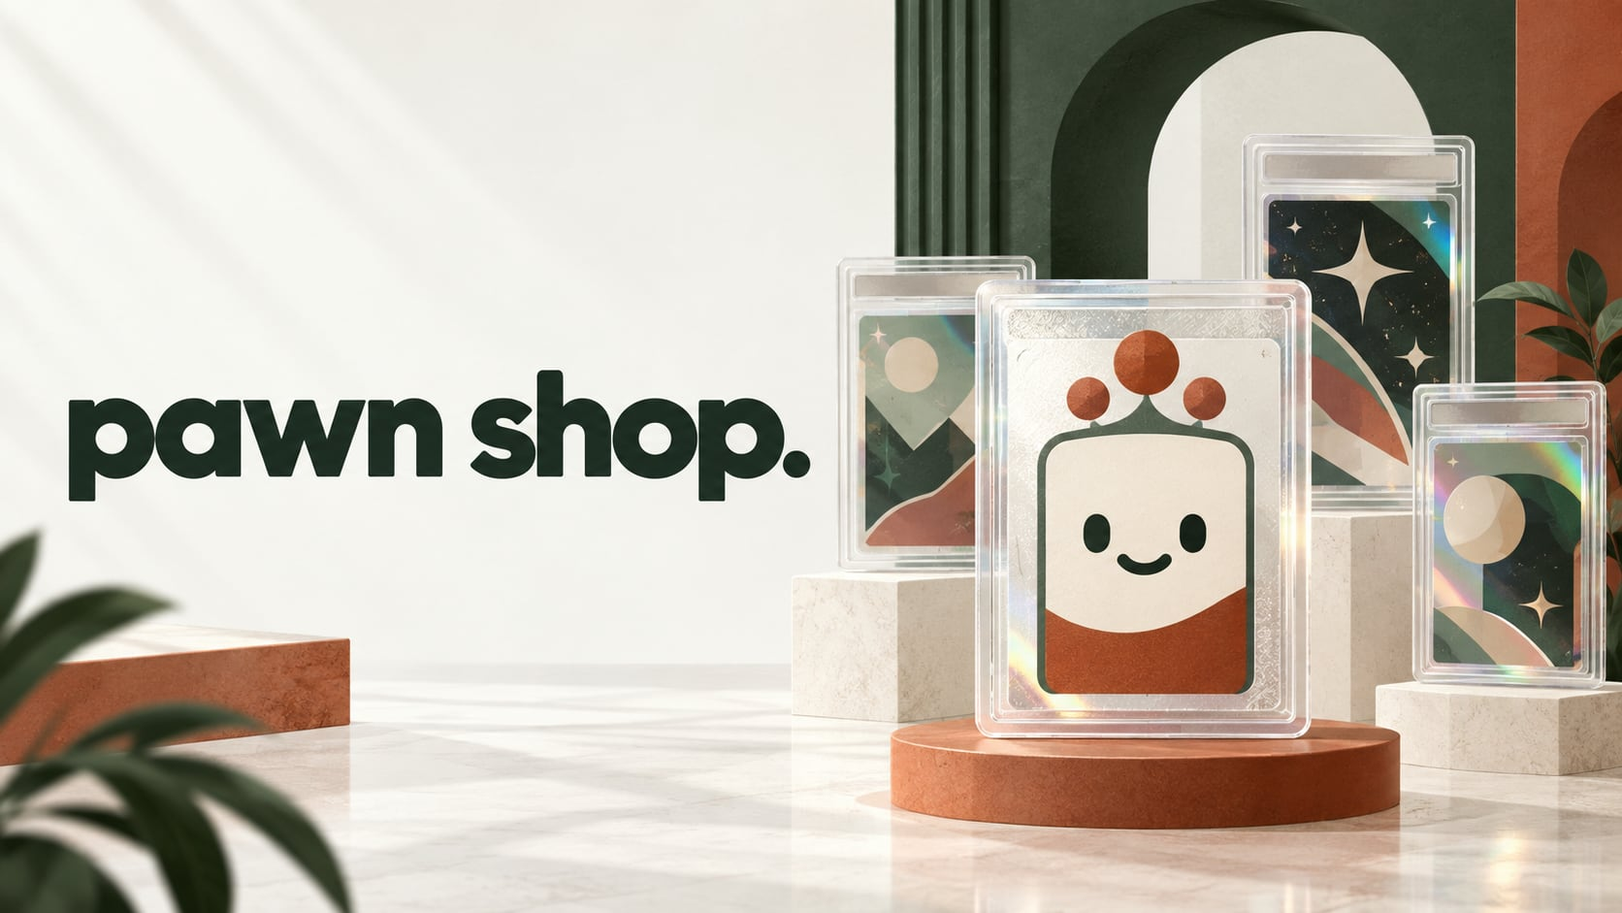
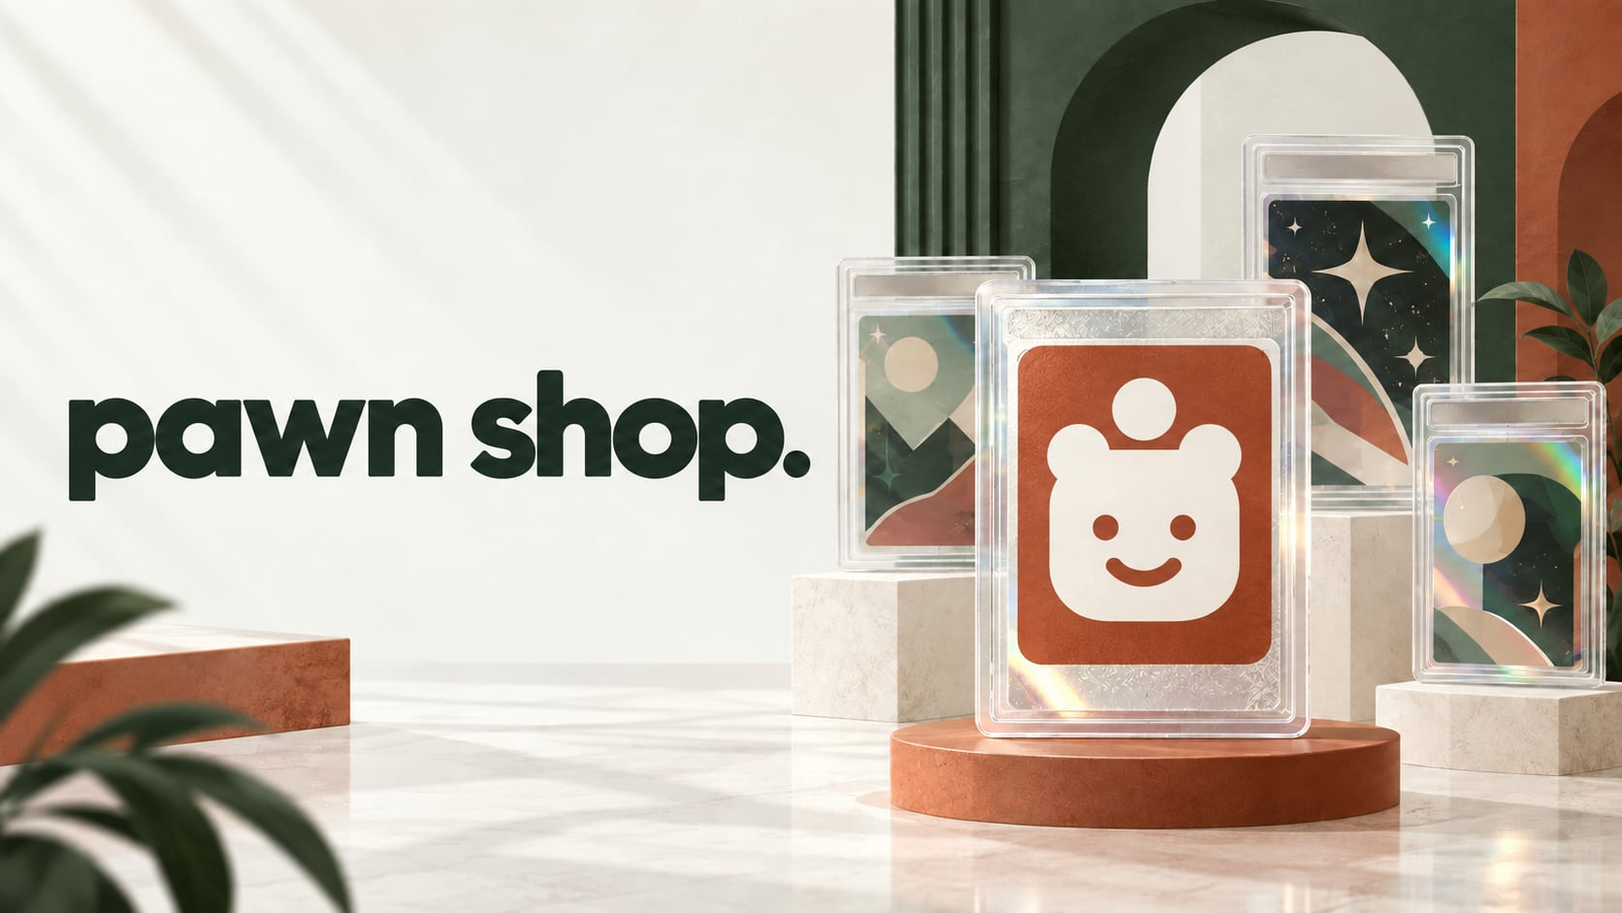
Show auctions across demo markets and align cover mascot

Changed region(s): [[0.622, 0.339, 0.8086, 0.7705]]

diff --git a/src/components/auction-board.tsx b/src/components/auction-board.tsx
@@ -1,7 +1,8 @@
 "use client";
 
 import { useEffect, useState } from "react";
-import { parseUnits, zeroAddress, type Hex } from "viem";
+import { useRouter } from "next/navigation";
+import { parseUnits, zeroAddress, type Address, type Hex } from "viem";
 import { useAccount, usePublicClient, useReadContract, useWriteContract } from "wagmi";
 import { Button } from "@/components/ui/button";
 import { Card, CardContent, CardDescription, CardHeader, CardTitle } from "@/components/ui/card";
@@ -10,23 +11,25 @@ import { abis, contracts, SEPOLIA_CHAIN_ID } from "@/lib/contracts";
 import { formatUsdc } from "@/lib/loan-math";
 
 type AuctionCard = { name: string; grade: string; imageUrl: string; psaReferenceNumber: string; saleSourceUrl: string };
+type AuctionRef = { loanId: string; auctionAddress: Address };
 
-export function AuctionBoard({ loanIds, cards }: { loanIds: string[]; cards: Record<string, AuctionCard> }) {
-  return <div className="grid gap-4">{loanIds.map((id) => <AuctionItem key={id} loanId={BigInt(id)} cards={cards} />)}</div>;
+export function AuctionBoard({ listings, cards }: { listings: AuctionRef[]; cards: Record<string, AuctionCard> }) {
+  return <div className="grid gap-4">{listings.map(({ loanId, auctionAddress }) => <AuctionItem key={`${auctionAddress}:${loanId}`} loanId={BigInt(loanId)} auctionAddress={auctionAddress} cards={cards} />)}</div>;
 }
 
-function AuctionItem({ loanId, cards }: { loanId: bigint; cards: Record<string, AuctionCard> }) {
+function AuctionItem({ loanId, auctionAddress, cards }: { loanId: bigint; auctionAddress: Address; cards: Record<string, AuctionCard> }) {
   const [amount, setAmount] = useState("");
   const [busy, setBusy] = useState(false);
   const [message, setMessage] = useState("");
   const [hash, setHash] = useState<Hex>();
   const [now, setNow] = useState(Date.now());
   const { address, isConnected, chainId } = useAccount();
+  const router = useRouter();
   const publicClient = usePublicClient({ chainId: SEPOLIA_CHAIN_ID });
   const { writeContractAsync } = useWriteContract();
-  const ready = Boolean(contracts.auction && contracts.mockUsdc && isConnected && chainId === SEPOLIA_CHAIN_ID && publicClient);
-  const auction = useReadContract({ address: contracts.auction, abi: abis.auction, functionName: "auctions", args: [loanId], chainId: SEPOLIA_CHAIN_ID, query: { enabled: Boolean(contracts.auction), refetchInterval: 15_000 } });
-  const minBid = useReadContract({ address: contracts.auction, abi: abis.auction, functionName: "minimumBid", args: [loanId], chainId: SEPOLIA_CHAIN_ID, query: { enabled: Boolean(contracts.auction), refetchInterval: 15_000 } });
+  const ready = Boolean(contracts.mockUsdc && isConnected && chainId === SEPOLIA_CHAIN_ID && publicClient);
+  const auction = useReadContract({ address: auctionAddress, abi: abis.auction, functionName: "auctions", args: [loanId], chainId: SEPOLIA_CHAIN_ID, query: { refetchInterval: 15_000 } });
+  const minBid = useReadContract({ address: auctionAddress, abi: abis.auction, functionName: "minimumBid", args: [loanId], chainId: SEPOLIA_CHAIN_ID, query: { refetchInterval: 15_000 } });
   const tokenBalance = useReadContract({ address: contracts.mockUsdc, abi: abis.mockUsdc, functionName: "balanceOf", args: [address ?? zeroAddress], chainId: SEPOLIA_CHAIN_ID, query: { enabled: ready, refetchInterval: 15_000 } });
   const details = Array.isArray(auction.data) ? auction.data : null;
   const card = details ? cards[String(details[0])] : undefined;
@@ -47,17 +50,17 @@ function AuctionItem({ loanId, cards }: { loanId: bigint; cards: Record<string, 
   }
 
   async function bid() {
-    if (!ready || !address || !publicClient || !contracts.auction || !contracts.mockUsdc || !entered || entered < minimum) return;
+    if (!ready || !address || !publicClient || !contracts.mockUsdc || !entered || entered < minimum) return;
     setBusy(true);
     setMessage("");
     try {
-      const allowance = await publicClient.readContract({ address: contracts.mockUsdc, abi: abis.mockUsdc, functionName: "allowance", args: [address, contracts.auction] });
+      const allowance = await publicClient.readContract({ address: contracts.mockUsdc, abi: abis.mockUsdc, functionName: "allowance", args: [address, auctionAddress] });
       if (typeof allowance !== "bigint" || allowance < entered) {
         setMessage("Approve MockUSDC for the bid in your wallet.");
-        await confirm(await writeContractAsync({ address: contracts.mockUsdc, abi: abis.mockUsdc, functionName: "approve", args: [contracts.auction, entered], chainId: SEPOLIA_CHAIN_ID }));
+        await confirm(await writeContractAsync({ address: contracts.mockUsdc, abi: abis.mockUsdc, functionName: "approve", args: [auctionAddress, entered], chainId: SEPOLIA_CHAIN_ID }));
       }
       setMessage("Confirm the auction bid in your wallet.");
-      await confirm(await writeContractAsync({ address: contracts.auction, abi: abis.auction, functionName: "bid", args: [loanId, entered], chainId: SEPOLIA_CHAIN_ID }));
+      await confirm(await writeContractAsync({ address: auctionAddress, abi: abis.auction, functionName: "bid", args: [loanId, entered], chainId: SEPOLIA_CHAIN_ID }));
       setAmount("");
       setMessage("Bid confirmed. The previous highest bidder was refunded.");
     } catch (error) { setMessage(error instanceof Error ? error.message.split("\n")[0] : "Bid failed."); }
@@ -65,12 +68,13 @@ function AuctionItem({ loanId, cards }: { loanId: bigint; cards: Record<string, 
   }
 
   async function settle() {
-    if (!ready || !contracts.auction) return;
+    if (!ready) return;
     setBusy(true);
     setMessage("");
     try {
-      await confirm(await writeContractAsync({ address: contracts.auction, abi: abis.auction, functionName: "settle", args: [loanId], chainId: SEPOLIA_CHAIN_ID }));
+      await confirm(await writeContractAsync({ address: auctionAddress, abi: abis.auction, functionName: "settle", args: [loanId], chainId: SEPOLIA_CHAIN_ID }));
       setMessage("Auction settled on Sepolia.");
+      router.refresh();
     } catch (error) { setMessage(error instanceof Error ? error.message.split("\n")[0] : "Settlement failed."); }
     finally { setBusy(false); }
   }

diff --git a/src/lib/data.ts b/src/lib/data.ts
@@ -1,12 +1,13 @@
 import "server-only";
 
-import { readFile } from "node:fs/promises";
-import { createPublicClient, http, parseAbi, type Address } from "viem";
+import { readFile, readdir } from "node:fs/promises";
+import { createPublicClient, http, parseAbi } from "viem";
 import { sepolia } from "viem/chains";
-import { and, desc, eq, gte, inArray } from "drizzle-orm";
+import { desc, eq } from "drizzle-orm";
 import { db } from "@/db";
 import { cards, chainEvents, valuationFixtures } from "@/db/schema";
 import { DEMO_CARDS, isDemoCardId } from "@/lib/demo-cards";
+import { auctionMarkets, discoverAuctionListings, type AuctionDeployment, type AuctionState } from "@/lib/auction-discovery";
 
 export async function getDemoCard(cardId = "demo-charizard-001") {
   if (!isDemoCardId(cardId)) return null;
@@ -25,58 +26,41 @@ export async function getActivity() {
   return db.select().from(chainEvents).orderBy(desc(chainEvents.blockNumber), desc(chainEvents.logIndex)).limit(50);
 }
 
-export async function getAuctionLoanIds() {
-  const deployment = JSON.parse(await readFile("deployments/sepolia.json", "utf8")) as {
-    chainId: number; contracts: { LiquidationAuction?: Address; LoanManager?: Address };
-  };
-  const auction = deployment.contracts.LiquidationAuction;
-  const manager = deployment.contracts.LoanManager;
-  if (deployment.chainId !== sepolia.id || !auction || !manager) return [];
+export async function getAuctionListings() {
+  let archiveFiles: string[] = [];
+  try { archiveFiles = (await readdir("deployments/archive")).filter((file) => file.endsWith(".json")).map((file) => `deployments/archive/${file}`); }
+  catch (error) { if ((error as NodeJS.ErrnoException).code !== "ENOENT") throw error; }
+  const deploymentFiles = ["deployments/sepolia.json", "deployments/sepolia-previous.json", ...archiveFiles];
+  const deployments: AuctionDeployment[] = [];
+  for (const file of deploymentFiles) {
+    try { deployments.push(JSON.parse(await readFile(file, "utf8")) as AuctionDeployment); }
+    catch (error) { if ((error as NodeJS.ErrnoException).code !== "ENOENT") throw error; }
+  }
+  const markets = auctionMarkets(deployments, sepolia.id);
+  if (markets.length === 0) throw new Error("No Sepolia auction markets are configured");
   const client = createPublicClient({ chain: sepolia, transport: http(process.env.NEXT_PUBLIC_SEPOLIA_RPC_URL) });
   const abi = parseAbi([
     "function nextLoanId() view returns (uint256)",
     "function auctions(uint256) view returns (uint256,uint256,address,uint64,address,uint256,bool)",
   ]);
-  const nextLoanId = await client.readContract({ address: manager, abi, functionName: "nextLoanId" });
-  const ids: string[] = [];
-  for (let upper = nextLoanId - 1n; upper > 0n && ids.length < 50;) {
-    const lower = upper > 49n ? upper - 49n : 1n;
-    const batch = Array.from({ length: Number(upper - lower + 1n) }, (_, index) => upper - BigInt(index));
-    const auctions = await client.multicall({
-      contracts: batch.map((loanId) => ({ address: auction, abi, functionName: "auctions" as const, args: [loanId] })),
-      allowFailure: false,
-    });
-    for (const [index, details] of auctions.entries()) {
-      if (details[3] !== 0n && !details[6]) ids.push(batch[index].toString());
-      if (ids.length === 50) break;
-    }
-    upper = lower - 1n;
-  }
-  return ids;
-}
-
-export async function getCachedAuctionLoanIds() {
-  const deployment = JSON.parse(await readFile("deployments/sepolia.json", "utf8")) as {
-    chainId: number; blockNumbers?: { LiquidationAuction?: number };
-  };
-  const deployedAt = deployment.blockNumbers?.LiquidationAuction;
-  if (deployment.chainId !== sepolia.id || !Number.isSafeInteger(deployedAt)) return [];
-  const events = await db.select({ loanId: chainEvents.loanId, eventName: chainEvents.eventName })
-    .from(chainEvents)
-    .where(and(
-      eq(chainEvents.chainId, sepolia.id),
-      gte(chainEvents.blockNumber, deployedAt!),
-      inArray(chainEvents.eventName, ["AuctionStarted", "AuctionSettled"]),
-    ))
-    .orderBy(desc(chainEvents.blockNumber), desc(chainEvents.logIndex))
-    .limit(500);
-  const seen = new Set<string>();
-  const ids: string[] = [];
-  for (const event of events) {
-    if (!event.loanId || seen.has(event.loanId)) continue;
-    seen.add(event.loanId);
-    if (event.eventName === "AuctionStarted") ids.push(event.loanId);
-    if (ids.length === 50) break;
-  }
-  return ids;
+  return discoverAuctionListings(markets, {
+    nextLoanId: (managerAddress) => client.readContract({ address: managerAddress, abi, functionName: "nextLoanId" }),
+    auctionStates: async (auctionAddress, loanIds) => {
+      const contracts = loanIds.map((loanId) => ({ address: auctionAddress, abi, functionName: "auctions" as const, args: [loanId] as const }));
+      let results: (AuctionState | null)[];
+      try {
+        const batches = await client.multicall({ contracts, allowFailure: true });
+        results = await Promise.all(batches.map(async (batch, index) => {
+          const details = batch.status === "success" ? batch.result : await client.readContract(contracts[index]);
+          return { endsAt: details[3], settled: details[6] };
+        }));
+      } catch {
+        results = await Promise.all(contracts.map(async (contract) => {
+          const details = await client.readContract(contract);
+          return { endsAt: details[3], settled: details[6] };
+        }));
+      }
+      return results;
+    },
+  });
 }

diff --git a/src/components/borrow-actions.tsx b/src/components/borrow-actions.tsx
@@ -166,6 +166,7 @@ export function BorrowActions({ cardId, tokenId, managerAddress, custodyStatus, 
     {ready && ownsCard && loanId === 0n && address && verified.data === false && (custodyStatus === 1 || custodyStatus === 3 || custodyStatus === 4) ? <WorldVerification config={worldConfig} wallet={address} onVerified={() => void verified.refetch()} /> : null}
     {loanId > 0n && loanTuple ? <dl className="divide-y divide-border border-y border-border text-sm"><div className="flex justify-between gap-4 py-3"><dt className="text-muted-foreground">Loan</dt><dd className="font-medium">#{loanId.toString()}</dd></div><div className="flex justify-between gap-4 py-3"><dt className="text-muted-foreground">Status</dt><dd className="font-medium">{loanStatus === 1 ? "Active" : loanStatus === 3 ? "In auction" : "Settled"}</dd></div><div className="flex justify-between gap-4 py-3"><dt className="text-muted-foreground">Term</dt><dd className="font-medium">{activeTermDays === null ? "—" : `${activeTermDays} days`}</dd></div><div className="flex justify-between gap-4 py-3"><dt className="text-muted-foreground">Interest accrued</dt><dd className="font-medium tabular-nums">{accruedInterest === null ? "—" : formatUsdc(accruedInterest)}</dd></div><div className="flex justify-between gap-4 py-3"><dt className="text-muted-foreground">Repayment due</dt><dd className="font-medium tabular-nums">{typeof repayment.data === "bigint" ? formatUsdc(repayment.data) : "—"}</dd></div>{loanStatus === 1 ? <div className="flex justify-between gap-4 py-3"><dt className="text-muted-foreground">Your MockUSDC</dt><dd className="font-medium tabular-nums">{typeof walletBalance.data === "bigint" ? formatUsdc(walletBalance.data) : "—"}</dd></div> : null}<div className="flex justify-between gap-4 py-3"><dt className="text-muted-foreground">Due date</dt><dd className="font-medium">{new Date(Number(loanTuple[5]) * 1000).toLocaleDateString()}</dd></div>{demoAccelerated.data === true ? <div className="py-3 text-warning-foreground">Full-term interest is due.</div> : null}</dl> : null}
     {loanId > 0n && loanStatus === 1 ? <>{repaymentShortfall > 0n ? <p className="text-sm text-warning-foreground">You need {formatUsdc(repaymentShortfall)} more MockUSDC. <Link href="/earn" className="font-semibold underline underline-offset-4">Get test funds</Link></p> : null}<Button type="button" className="w-full" disabled={busy || fullTermRepayment === null || repaymentShortfall > 0n} onClick={() => void repay()}>{busy ? "Waiting for confirmation…" : "Repay and reclaim card"}</Button>{canAccelerate || canMarkDefault ? <details className="pt-2 text-sm"><summary className="cursor-pointer text-muted-foreground">Test controls</summary><div className="mt-3 space-y-2">{canAccelerate ? <Button type="button" variant="outline" className="w-full" disabled={busy} onClick={() => void accelerateDemoMaturity()}>Advance loan to default</Button> : null}{canMarkDefault ? <Button type="button" variant="outline" className="w-full" disabled={busy} onClick={() => void markDefault()}>Mark loan in default</Button> : null}</div></details> : null}</> : null}
+    {loanId > 0n && loanStatus === 3 ? <Link href="/auctions" prefetch={false} className="inline-flex min-h-10 items-center text-sm font-semibold text-primary underline underline-offset-4">View auction</Link> : null}
     {loanId === 0n ? <Button type="button" className="w-full" disabled={!canOriginate || busy} onClick={() => void originate()}>{busy ? "Waiting for confirmation…" : "Confirm & deposit card"}</Button> : null}
     {message ? <p className="text-xs leading-5" role="status">{message}</p> : null}
     {hash ? <a className="inline-flex min-h-10 items-center rounded-sm text-sm underline underline-offset-4 focus-visible:outline-none focus-visible:ring-2 focus-visible:ring-ring" target="_blank" rel="noopener noreferrer" href={`https://sepolia.etherscan.io/tx/${hash}`}>View latest transaction</a> : null}

diff --git a/src/app/auctions/page.tsx b/src/app/auctions/page.tsx
@@ -1,28 +1,33 @@
 import type { Metadata } from "next";
 import { AuctionBoard } from "@/components/auction-board";
-import { getAuctionLoanIds, getCachedAuctionLoanIds, getDemoCards } from "@/lib/data";
+import { AuctionRefresh } from "@/components/auction-refresh";
+import { getAuctionListings, getDemoCards } from "@/lib/data";
 import { getDemoCardEvidence } from "@/lib/demo-cards";
 import { Card, CardContent } from "@/components/ui/card";
 import { PageHeading } from "@/components/page-heading";
+import type { AuctionListing } from "@/lib/auction-discovery";
 
 export const metadata: Metadata = { title: "Auctions" };
 export const dynamic = "force-dynamic";
 
 export default async function AuctionsPage() {
   let syncError = false;
-  let loanIds: string[] = [];
-  try { loanIds = await getAuctionLoanIds(); } catch (error) {
+  let listings: AuctionListing[] = [];
+  try {
+    const result = await getAuctionListings();
+    listings = result.listings;
+    syncError = result.failedMarkets > 0;
+  } catch (error) {
     syncError = true;
-    console.error("Active auction read failed", error);
-    try { loanIds = await getCachedAuctionLoanIds(); } catch (cacheError) { console.error("Cached auction read failed", cacheError); }
+    console.error("Auction market read failed", error);
   }
   const cardRecords = await getDemoCards();
   const cards = Object.fromEntries(cardRecords.flatMap(({ card }) => {
     const evidence = getDemoCardEvidence(card.id);
     return card.tokenId && evidence ? [[card.tokenId, { name: card.name, grade: card.grade, imageUrl: evidence.imageUrl, psaReferenceNumber: evidence.psaReferenceNumber, saleSourceUrl: evidence.saleSourceUrl }]] : [];
   }));
-  return <main className="mx-auto w-full max-w-7xl space-y-8 px-4 py-8 md:px-6 md:py-12 lg:px-8"><PageHeading title="Card auctions" description="Find cards from loans that reached auction." />
-    {syncError ? <p role="status" className="text-sm text-muted-foreground">Could not refresh auctions right now.</p> : null}
-    {loanIds.length > 0 ? <AuctionBoard loanIds={loanIds} cards={cards} /> : <Card><CardContent className="flex min-h-72 flex-col items-center justify-center p-8 text-center"><h2 className="font-display text-3xl font-semibold">{syncError ? "Auctions unavailable." : "No live auctions."}</h2><p className="mt-3 text-sm text-muted-foreground">{syncError ? "Please try again shortly." : "Cards entering auction will appear here."}</p></CardContent></Card>}
+  return <main className="mx-auto w-full max-w-7xl space-y-8 px-4 py-8 md:px-6 md:py-12 lg:px-8"><AuctionRefresh /><PageHeading title="Card auctions" description="Find cards from loans that reached auction." />
+    {syncError ? <p role="status" className="text-sm text-muted-foreground">Some auctions could not refresh right now.</p> : null}
+    {listings.length > 0 ? <AuctionBoard listings={listings.map(({ loanId, auctionAddress }) => ({ loanId, auctionAddress }))} cards={cards} /> : <Card><CardContent className="flex min-h-72 flex-col items-center justify-center p-8 text-center"><h2 className="font-display text-3xl font-semibold">{syncError ? "Auctions unavailable." : "No live auctions."}</h2><p className="mt-3 text-sm text-muted-foreground">{syncError ? "Please try again shortly." : "Cards entering auction will appear here."}</p></CardContent></Card>}
   </main>;
 }

diff --git a/src/lib/auction-discovery.ts b/src/lib/auction-discovery.ts
@@ -1,0 +1,51 @@
+import { isAddress, type Address } from "viem";
+
+export type AuctionDeployment = {
+  chainId: number;
+  contracts: { LoanManager?: string; LiquidationAuction?: string };
+};
+
+export type AuctionMarket = { managerAddress: Address; auctionAddress: Address };
+export type AuctionListing = AuctionMarket & { loanId: string; endsAt: bigint };
+export type AuctionState = { endsAt: bigint; settled: boolean };
+
+export type AuctionReader = {
+  nextLoanId: (managerAddress: Address) => Promise<bigint>;
+  auctionStates: (auctionAddress: Address, loanIds: bigint[]) => Promise<(AuctionState | null)[]>;
+};
+
+export function auctionMarkets(deployments: AuctionDeployment[], chainId: number): AuctionMarket[] {
+  const seen = new Set<string>();
+  return deployments.flatMap((deployment) => {
+    const managerAddress = deployment.contracts?.LoanManager;
+    const auctionAddress = deployment.contracts?.LiquidationAuction;
+    if (deployment.chainId !== chainId || !managerAddress || !auctionAddress || !isAddress(managerAddress) || !isAddress(auctionAddress)) return [];
+    const key = managerAddress.toLowerCase();
+    if (seen.has(key)) return [];
+    seen.add(key);
+    return [{ managerAddress, auctionAddress }];
+  });
+}
+
+export async function discoverAuctionListings(markets: AuctionMarket[], reader: AuctionReader) {
+  const results = await Promise.allSettled(markets.map(async (market) => {
+    const nextLoanId = await reader.nextLoanId(market.managerAddress);
+    const listings: AuctionListing[] = [];
+    for (let upper = nextLoanId - 1n; upper > 0n && listings.length < 50;) {
+      const lower = upper > 49n ? upper - 49n : 1n;
+      const loanIds = Array.from({ length: Number(upper - lower + 1n) }, (_, index) => upper - BigInt(index));
+      const states = await reader.auctionStates(market.auctionAddress, loanIds);
+      if (states.length !== loanIds.length || states.some((state) => state === null)) throw new Error(`Could not read auctions at ${market.auctionAddress}`);
+      states.forEach((state, index) => {
+        if (state && state.endsAt > 0n && !state.settled) listings.push({ ...market, loanId: loanIds[index].toString(), endsAt: state.endsAt });
+      });
+      upper = lower - 1n;
+    }
+    return listings;
+  }));
+
+  const listings = results.flatMap((result) => result.status === "fulfilled" ? result.value : [])
+    .sort((left, right) => left.endsAt === right.endsAt ? 0 : left.endsAt > right.endsAt ? -1 : 1)
+    .slice(0, 50);
+  return { listings, failedMarkets: results.filter((result) => result.status === "rejected").length };
+}

diff --git a/src/lib/auction-discovery.test.ts b/src/lib/auction-discovery.test.ts
@@ -1,0 +1,46 @@
+import assert from "node:assert/strict";
+import test from "node:test";
+import { auctionMarkets, discoverAuctionListings, type AuctionReader } from "./auction-discovery";
+
+const currentManager = "0x362f6d3c3484d69dae532b7b953c0d3213db9e68";
+const currentAuction = "0x9815c51b6d6ed25d1d62f9bf9f623ebd2f392067";
+const previousManager = "0xb92a743f90aa307c794c52de7211905c31445b6c";
+const previousAuction = "0xee946cfaccbf00a7502d9555c23a912b5d5913b2";
+
+test("finds a defaulted loan in a previous market when the new market is empty", async () => {
+  const markets = auctionMarkets([
+    { chainId: 11155111, contracts: { LoanManager: currentManager, LiquidationAuction: currentAuction } },
+    { chainId: 11155111, contracts: { LoanManager: previousManager, LiquidationAuction: previousAuction } },
+    { chainId: 11155111, contracts: { LoanManager: previousManager, LiquidationAuction: previousAuction } },
+  ], 11155111);
+  assert.equal(markets.length, 2);
+  const reader: AuctionReader = {
+    nextLoanId: async (manager) => manager === currentManager ? 1n : 2n,
+    auctionStates: async (auction, ids) => {
+      assert.equal(auction, previousAuction);
+      assert.deepEqual(ids, [1n]);
+      return [{ endsAt: 1790453244n, settled: false }];
+    },
+  };
+  const result = await discoverAuctionListings(markets, reader);
+  assert.equal(result.failedMarkets, 0);
+  assert.deepEqual(result.listings.map(({ loanId, managerAddress, auctionAddress }) => ({ loanId, managerAddress, auctionAddress })), [
+    { loanId: "1", managerAddress: previousManager, auctionAddress: previousAuction },
+  ]);
+});
+
+test("one unavailable market does not hide another market's auction", async () => {
+  const markets = auctionMarkets([
+    { chainId: 11155111, contracts: { LoanManager: currentManager, LiquidationAuction: currentAuction } },
+    { chainId: 11155111, contracts: { LoanManager: previousManager, LiquidationAuction: previousAuction } },
+  ], 11155111);
+  const result = await discoverAuctionListings(markets, {
+    nextLoanId: async (manager) => {
+      if (manager === currentManager) throw new Error("RPC unavailable");
+      return 2n;
+    },
+    auctionStates: async () => [{ endsAt: 1790453244n, settled: false }],
+  });
+  assert.equal(result.failedMarkets, 1);
+  assert.equal(result.listings[0].auctionAddress, previousAuction);
+});

diff --git a/src/components/auction-refresh.tsx b/src/components/auction-refresh.tsx
@@ -1,0 +1,15 @@
+"use client";
+
+import { useEffect } from "react";
+import { useRouter } from "next/navigation";
+
+export function AuctionRefresh() {
+  const router = useRouter();
+  useEffect(() => {
+    const refresh = () => { if (document.visibilityState === "visible") router.refresh(); };
+    const timer = window.setInterval(refresh, 15_000);
+    document.addEventListener("visibilitychange", refresh);
+    return () => { window.clearInterval(timer); document.removeEventListener("visibilitychange", refresh); };
+  }, [router]);
+  return null;
+}
